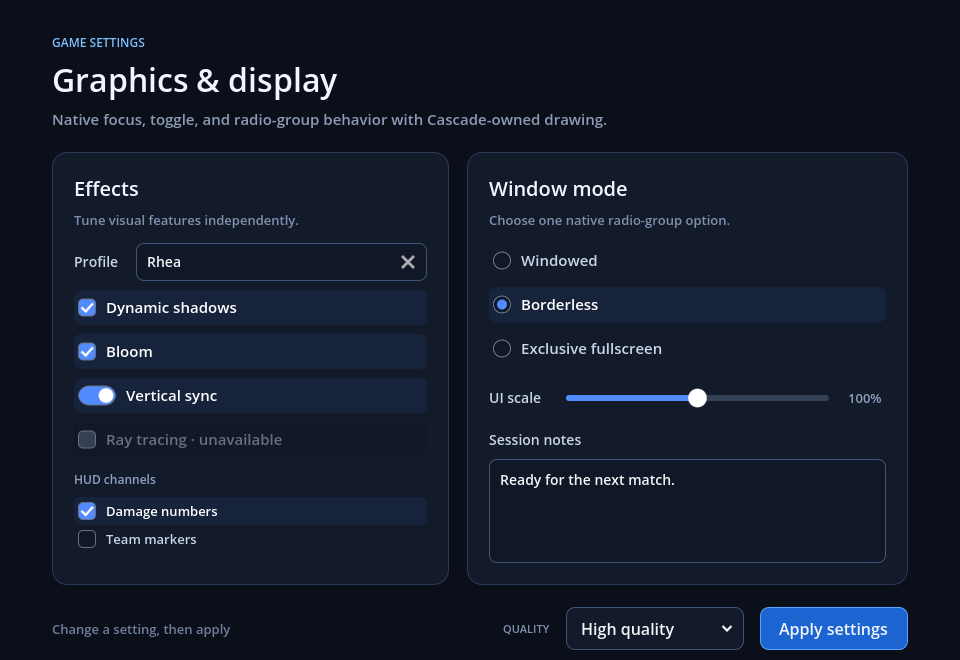
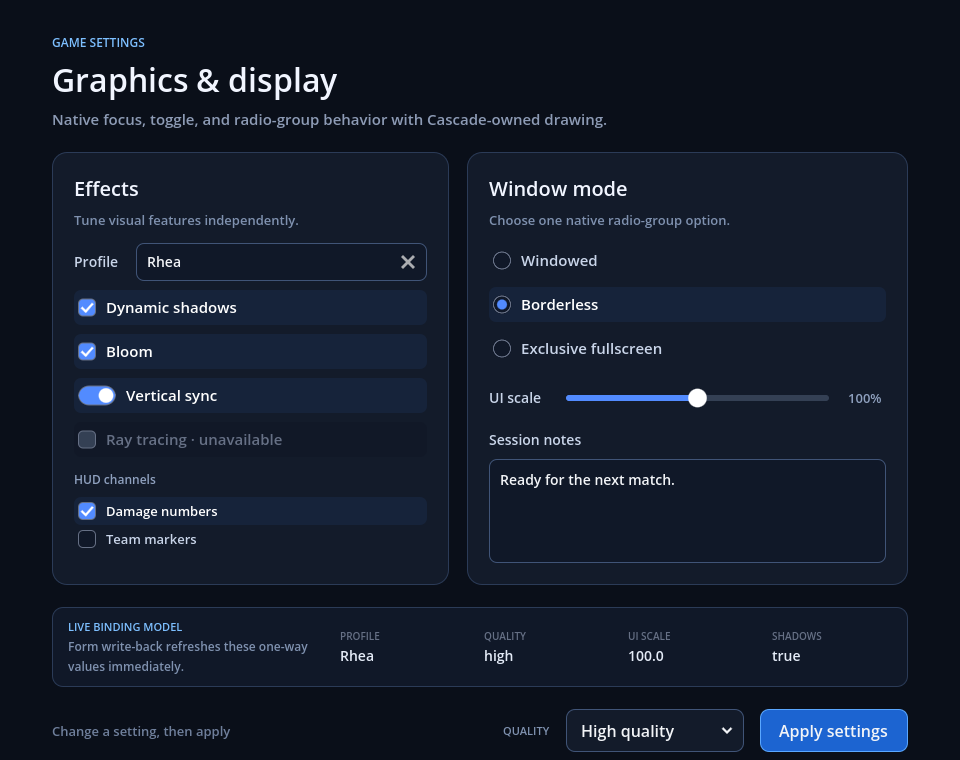
Show live binding updates in showcase

diff --git a/docs/showcase/index.html b/docs/showcase/index.html
@@ -738,24 +738,24 @@
         <div>
           <p class="eyebrow">Current demo</p>
           <h2>Settings menu</h2>
-          <p>An interactive source-generated settings surface exercising native text editing, validation, writable bindings, owned form controls, focus-visible state, and shared pseudo-state precedence.</p>
+          <p>An interactive source-generated settings surface making two-way form write-back and dependent one-way refresh visible alongside native editing, validation, and owned controls.</p>
         </div>
         <dl>
-          <div><dt>Viewport</dt><dd>960 × 660</dd></div>
+          <div><dt>Viewport</dt><dd>960 × 760</dd></div>
           <div><dt>Godot scene</dt><dd><code>examples/settings_menu_showcase.tscn</code></dd></div>
         </dl>
       </header>
 
       <div class="comparison">
         <section class="render-column">
-          <div class="render-label"><span>HTML reference</span><small><a href="references/settings-menu-0280aedcf5d2.html" target="_blank" rel="noreferrer">Open reference</a></small></div>
-          <div class="render-frame" data-viewport-width="960" data-viewport-height="660" style="--viewport-width:960px; --viewport-height:660px; aspect-ratio:960/660">
-            <iframe width="960" height="660" title="HTML rendering of Settings menu" src="references/settings-menu-0280aedcf5d2.html"></iframe>
+          <div class="render-label"><span>HTML reference</span><small><a href="references/settings-menu-345e3842a44f.html" target="_blank" rel="noreferrer">Open reference</a></small></div>
+          <div class="render-frame" data-viewport-width="960" data-viewport-height="760" style="--viewport-width:960px; --viewport-height:760px; aspect-ratio:960/760">
+            <iframe width="960" height="760" title="HTML rendering of Settings menu" src="references/settings-menu-345e3842a44f.html"></iframe>
           </div>
         </section>
         <section class="render-column">
           <div class="render-label"><span>GodotCascade</span><small>Captured from the native Godot scene</small></div>
-          <div class="render-frame godot-render" data-viewport-width="960" data-viewport-height="660" style="--viewport-width:960px; --viewport-height:660px; aspect-ratio:960/660"><img src="assets/settings-menu-godot.png" alt="GodotCascade render of Settings menu"></div>
+          <div class="render-frame godot-render" data-viewport-width="960" data-viewport-height="760" style="--viewport-width:960px; --viewport-height:760px; aspect-ratio:960/760"><img src="assets/settings-menu-godot.png" alt="GodotCascade render of Settings menu"></div>
         </section>
       </div>
 
@@ -767,7 +767,7 @@
         </div>
         <table>
           <thead><tr><th>HTML/CSS</th><th>GodotCascade source</th><th>Runtime</th></tr></thead>
-          <tbody><tr><td><code>input[type=checkbox]</code></td><td><code>Checkbox</code></td><td><code>CascadeCheckbox (BaseButton toggle)</code></td></tr><tr><td><code>input[type=text]</code></td><td><code>TextInput</code></td><td><code>CascadeTextInput (native LineEdit adapter)</code></td></tr><tr><td><code>textarea</code></td><td><code>TextInput multiline=&quot;true&quot;</code></td><td><code>CascadeTextArea (native TextEdit adapter)</code></td></tr><tr><td><code>input/change</code></td><td><code>bind-*={path}</code></td><td><code>Validated writable binding + dependent refresh</code></td></tr><tr><td><code>repeated form rows</code></td><td><code>Repeat + bind-checked={item.enabled}</code></td><td><code>Keyed item-scope write-back</code></td></tr><tr><td><code>input[role=switch]</code></td><td><code>Switch</code></td><td><code>CascadeSwitch track/thumb drawing</code></td></tr><tr><td><code>select / option</code></td><td><code>Select / Option</code></td><td><code>CascadeSelect + PopupPanel</code></td></tr><tr><td><code>input[type=range]</code></td><td><code>Slider</code></td><td><code>CascadeSlider native range input</code></td></tr><tr><td><code>range hover</code></td><td><code>#ui-scale:hover</code></td><td><code>Native slider track hover state</code></td></tr><tr><td><code>input[type=radio] name</code></td><td><code>RadioButton group</code></td><td><code>CascadeRadioButton + ButtonGroup</code></td></tr><tr><td><code>checked / disabled</code></td><td><code>checked / disabled</code></td><td><code>Native button state</code></td></tr><tr><td><code>:checked / :hover</code></td><td><code>:checked / :hover</code></td><td><code>Shared state adapter</code></td></tr><tr><td><code>:invalid / :focus-visible</code></td><td><code>:invalid / :focus-visible</code></td><td><code>Validation and input-modality styling</code></td></tr><tr><td><code>:open / option:checked</code></td><td><code>:open / Option:selected</code></td><td><code>Popup and option state</code></td></tr><tr><td><code>aria-label</code></td><td><code>accessible-label</code></td><td><code>Native accessibility name</code></td></tr><tr><td><code>fieldset-like cards</code></td><td><code>Panel + Column</code></td><td><code>CascadePanel flex layout</code></td></tr></tbody>
+          <tbody><tr><td><code>input[type=checkbox]</code></td><td><code>Checkbox</code></td><td><code>CascadeCheckbox (BaseButton toggle)</code></td></tr><tr><td><code>input[type=text]</code></td><td><code>TextInput</code></td><td><code>CascadeTextInput (native LineEdit adapter)</code></td></tr><tr><td><code>textarea</code></td><td><code>TextInput multiline=&quot;true&quot;</code></td><td><code>CascadeTextArea (native TextEdit adapter)</code></td></tr><tr><td><code>input/change</code></td><td><code>bind-*={path}</code></td><td><code>Validated writable binding + dependent refresh</code></td></tr><tr><td><code>live model output</code></td><td><code>Label text={path}</code></td><td><code>Immediate dependent one-way refresh</code></td></tr><tr><td><code>repeated form rows</code></td><td><code>Repeat + bind-checked={item.enabled}</code></td><td><code>Keyed item-scope write-back</code></td></tr><tr><td><code>input[role=switch]</code></td><td><code>Switch</code></td><td><code>CascadeSwitch track/thumb drawing</code></td></tr><tr><td><code>select / option</code></td><td><code>Select / Option</code></td><td><code>CascadeSelect + PopupPanel</code></td></tr><tr><td><code>input[type=range]</code></td><td><code>Slider</code></td><td><code>CascadeSlider native range input</code></td></tr><tr><td><code>range hover</code></td><td><code>#ui-scale:hover</code></td><td><code>Native slider track hover state</code></td></tr><tr><td><code>input[type=radio] name</code></td><td><code>RadioButton group</code></td><td><code>CascadeRadioButton + ButtonGroup</code></td></tr><tr><td><code>checked / disabled</code></td><td><code>checked / disabled</code></td><td><code>Native button state</code></td></tr><tr><td><code>:checked / :hover</code></td><td><code>:checked / :hover</code></td><td><code>Shared state adapter</code></td></tr><tr><td><code>:invalid / :focus-visible</code></td><td><code>:invalid / :focus-visible</code></td><td><code>Validation and input-modality styling</code></td></tr><tr><td><code>:open / option:checked</code></td><td><code>:open / Option:selected</code></td><td><code>Popup and option state</code></td></tr><tr><td><code>aria-label</code></td><td><code>accessible-label</code></td><td><code>Native accessibility name</code></td></tr><tr><td><code>fieldset-like cards</code></td><td><code>Panel + Column</code></td><td><code>CascadePanel flex layout</code></td></tr></tbody>
         </table>
       </section>
 
@@ -785,8 +785,8 @@
     :root { color-scheme:dark; font-family:Inter,ui-sans-serif,system-ui,sans-serif; background:#0a0f19; color:#f1f5ff; }
     * { box-sizing:border-box; }
     html,body { margin:0; min-height:100%; }
-    body { min-height:660px; background:#0a0f19; }
-    main { min-height:660px; padding:34px 52px; display:flex; flex-direction:column; gap:22px; }
+    body { min-height:760px; background:#0a0f19; }
+    main { min-height:760px; padding:34px 52px; display:flex; flex-direction:column; gap:22px; }
     header { display:flex; flex-direction:column; gap:6px; }
     .eyebrow { margin:0; color:#7dbfff; font-size:12px; letter-spacing:.11em; }
     h1 { margin:0; font-size:32px; font-weight:500; }
@@ -830,6 +830,14 @@
     textarea { width:100%; min-height:104px; resize:none; padding:9px 11px; color:#f2f4f7; font:14px inherit; background:#101828; border:1px solid #405477; border-radius:7px; outline:none; }
     textarea:hover { background:#182235; }
     textarea:focus-visible { border:2px solid #84adff; }
+    .binding-monitor { min-height:72px; padding:12px 16px; display:flex; align-items:center; gap:22px; background:#101828; border:1px solid #2b3b57; border-radius:10px; }
+    .binding-intro { min-width:250px; display:flex; flex-direction:column; gap:3px; }
+    .binding-title { color:#7dbfff; font-size:11px; }
+    .binding-help { color:#7f91af; font-size:12px; }
+    .binding-values { margin:0; display:flex; align-items:center; gap:24px; flex:1; }
+    .binding-values div { min-width:90px; display:flex; flex:1; flex-direction:column; gap:3px; }
+    .binding-values dt { color:#667085; font-size:10px; }
+    .binding-values dd { margin:0; color:#e4ebf7; font-size:14px; }
     footer { display:flex; align-items:center; gap:16px; }
     .hint { flex:1; color:#6f7f9b; font-size:13px; }
     .select-label { color:#7f91af; font-size:11px; letter-spacing:.08em; }
@@ -845,20 +853,31 @@
   &lt;main&gt;
     &lt;header&gt;&lt;p class=&quot;eyebrow&quot;&gt;GAME SETTINGS&lt;/p&gt;&lt;h1&gt;Graphics &amp;amp; display&lt;/h1&gt;&lt;p class=&quot;subtitle&quot;&gt;Native focus, toggle, and radio-group behavior with Cascade-owned drawing.&lt;/p&gt;&lt;/header&gt;
     &lt;div class=&quot;content&quot;&gt;
-      &lt;section&gt;&lt;h2&gt;Effects&lt;/h2&gt;&lt;p class=&quot;help&quot;&gt;Tune visual features independently.&lt;/p&gt;&lt;div class=&quot;profile-setting&quot;&gt;&lt;span class=&quot;profile-label&quot;&gt;Profile&lt;/span&gt;&lt;input id=&quot;profile-name&quot; class=&quot;profile-input&quot; value=&quot;Rhea&quot; placeholder=&quot;Player name&quot; required minlength=&quot;2&quot; maxlength=&quot;16&quot; aria-label=&quot;Player profile name&quot;&gt;&lt;/div&gt;&lt;label&gt;&lt;input type=&quot;checkbox&quot; checked&gt;Dynamic shadows&lt;/label&gt;&lt;label&gt;&lt;input type=&quot;checkbox&quot; checked&gt;Bloom&lt;/label&gt;&lt;label class=&quot;switch&quot;&gt;&lt;input type=&quot;checkbox&quot; role=&quot;switch&quot; checked&gt;&lt;span class=&quot;switch-track&quot; aria-hidden=&quot;true&quot;&gt;&lt;span class=&quot;switch-thumb&quot;&gt;&lt;/span&gt;&lt;/span&gt;&lt;span&gt;Vertical sync&lt;/span&gt;&lt;/label&gt;&lt;label&gt;&lt;input type=&quot;checkbox&quot; disabled&gt;Ray tracing · unavailable&lt;/label&gt;&lt;span class=&quot;channel-title&quot;&gt;HUD channels&lt;/span&gt;&lt;label class=&quot;channel-setting&quot; data-repeat-scope=&quot;item.enabled&quot;&gt;&lt;input type=&quot;checkbox&quot; checked&gt;Damage numbers&lt;/label&gt;&lt;label class=&quot;channel-setting&quot; data-repeat-scope=&quot;item.enabled&quot;&gt;&lt;input type=&quot;checkbox&quot;&gt;Team markers&lt;/label&gt;&lt;/section&gt;
+      &lt;section&gt;&lt;h2&gt;Effects&lt;/h2&gt;&lt;p class=&quot;help&quot;&gt;Tune visual features independently.&lt;/p&gt;&lt;div class=&quot;profile-setting&quot;&gt;&lt;span class=&quot;profile-label&quot;&gt;Profile&lt;/span&gt;&lt;input id=&quot;profile-name&quot; class=&quot;profile-input&quot; value=&quot;Rhea&quot; placeholder=&quot;Player name&quot; required minlength=&quot;2&quot; maxlength=&quot;16&quot; aria-label=&quot;Player profile name&quot;&gt;&lt;/div&gt;&lt;label&gt;&lt;input id=&quot;shadows&quot; type=&quot;checkbox&quot; checked&gt;Dynamic shadows&lt;/label&gt;&lt;label&gt;&lt;input type=&quot;checkbox&quot; checked&gt;Bloom&lt;/label&gt;&lt;label class=&quot;switch&quot;&gt;&lt;input type=&quot;checkbox&quot; role=&quot;switch&quot; checked&gt;&lt;span class=&quot;switch-track&quot; aria-hidden=&quot;true&quot;&gt;&lt;span class=&quot;switch-thumb&quot;&gt;&lt;/span&gt;&lt;/span&gt;&lt;span&gt;Vertical sync&lt;/span&gt;&lt;/label&gt;&lt;label&gt;&lt;input type=&quot;checkbox&quot; disabled&gt;Ray tracing · unavailable&lt;/label&gt;&lt;span class=&quot;channel-title&quot;&gt;HUD channels&lt;/span&gt;&lt;label class=&quot;channel-setting&quot; data-repeat-scope=&quot;item.enabled&quot;&gt;&lt;input type=&quot;checkbox&quot; checked&gt;Damage numbers&lt;/label&gt;&lt;label class=&quot;channel-setting&quot; data-repeat-scope=&quot;item.enabled&quot;&gt;&lt;input type=&quot;checkbox&quot;&gt;Team markers&lt;/label&gt;&lt;/section&gt;
       &lt;section&gt;&lt;h2&gt;Window mode&lt;/h2&gt;&lt;p class=&quot;help&quot;&gt;Choose one native radio-group option.&lt;/p&gt;&lt;label&gt;&lt;input type=&quot;radio&quot; name=&quot;window-mode&quot;&gt;Windowed&lt;/label&gt;&lt;label&gt;&lt;input type=&quot;radio&quot; name=&quot;window-mode&quot; checked&gt;Borderless&lt;/label&gt;&lt;label&gt;&lt;input type=&quot;radio&quot; name=&quot;window-mode&quot;&gt;Exclusive fullscreen&lt;/label&gt;&lt;div class=&quot;range-setting&quot;&gt;&lt;span&gt;UI scale&lt;/span&gt;&lt;span class=&quot;range-control&quot;&gt;&lt;input id=&quot;ui-scale&quot; type=&quot;range&quot; min=&quot;75&quot; max=&quot;125&quot; value=&quot;100&quot; step=&quot;5&quot; aria-label=&quot;Interface scale&quot;&gt;&lt;span class=&quot;range-track&quot; aria-hidden=&quot;true&quot;&gt;&lt;span class=&quot;range-fill&quot;&gt;&lt;/span&gt;&lt;span class=&quot;range-thumb&quot;&gt;&lt;/span&gt;&lt;/span&gt;&lt;/span&gt;&lt;output id=&quot;scale-value&quot;&gt;100%&lt;/output&gt;&lt;/div&gt;&lt;span class=&quot;notes-label&quot;&gt;Session notes&lt;/span&gt;&lt;textarea id=&quot;session-notes&quot; maxlength=&quot;160&quot; placeholder=&quot;Add notes for the next launch&quot; aria-label=&quot;Session notes&quot;&gt;Ready for the next match.&lt;/textarea&gt;&lt;/section&gt;
     &lt;/div&gt;
+    &lt;div class=&quot;binding-monitor&quot;&gt;&lt;div class=&quot;binding-intro&quot;&gt;&lt;span class=&quot;binding-title&quot;&gt;LIVE BINDING MODEL&lt;/span&gt;&lt;span class=&quot;binding-help&quot;&gt;Form write-back refreshes these one-way values immediately.&lt;/span&gt;&lt;/div&gt;&lt;dl class=&quot;binding-values&quot;&gt;&lt;div&gt;&lt;dt&gt;PROFILE&lt;/dt&gt;&lt;dd id=&quot;bound-profile&quot;&gt;Rhea&lt;/dd&gt;&lt;/div&gt;&lt;div&gt;&lt;dt&gt;QUALITY&lt;/dt&gt;&lt;dd id=&quot;bound-quality&quot;&gt;high&lt;/dd&gt;&lt;/div&gt;&lt;div&gt;&lt;dt&gt;UI SCALE&lt;/dt&gt;&lt;dd id=&quot;bound-scale&quot;&gt;100&lt;/dd&gt;&lt;/div&gt;&lt;div&gt;&lt;dt&gt;SHADOWS&lt;/dt&gt;&lt;dd id=&quot;bound-shadows&quot;&gt;true&lt;/dd&gt;&lt;/div&gt;&lt;/dl&gt;&lt;/div&gt;
     &lt;footer&gt;&lt;span id=&quot;settings-status&quot; class=&quot;hint&quot; aria-live=&quot;polite&quot;&gt;Change a setting, then apply&lt;/span&gt;&lt;span class=&quot;select-label&quot;&gt;QUALITY&lt;/span&gt;&lt;span class=&quot;select-control&quot;&gt;&lt;select id=&quot;quality&quot; aria-label=&quot;Graphics quality&quot;&gt;&lt;option value=&quot;low&quot;&gt;Low quality&lt;/option&gt;&lt;option value=&quot;medium&quot;&gt;Medium quality&lt;/option&gt;&lt;option value=&quot;high&quot; selected&gt;High quality&lt;/option&gt;&lt;option value=&quot;ultra&quot;&gt;Ultra quality&lt;/option&gt;&lt;/select&gt;&lt;span class=&quot;select-face&quot; aria-hidden=&quot;true&quot;&gt;&lt;span&gt;High quality&lt;/span&gt;&lt;span class=&quot;select-chevron&quot;&gt;&lt;/span&gt;&lt;/span&gt;&lt;/span&gt;&lt;button id=&quot;apply&quot; type=&quot;button&quot;&gt;Apply settings&lt;/button&gt;&lt;/footer&gt;
   &lt;/main&gt;
   &lt;script&gt;
     const profile = document.querySelector(&#x27;#profile-name&#x27;);
+    const shadows = document.querySelector(&#x27;#shadows&#x27;);
     const scale = document.querySelector(&#x27;#ui-scale&#x27;);
     const scaleValue = document.querySelector(&#x27;#scale-value&#x27;);
     const quality = document.querySelector(&#x27;#quality&#x27;);
     const qualityFace = document.querySelector(&#x27;.select-face span&#x27;);
     const status = document.querySelector(&#x27;#settings-status&#x27;);
     const markChanged = () =&gt; { status.textContent = &#x27;Unsaved changes&#x27;; };
-    document.querySelectorAll(&#x27;input, select, textarea&#x27;).forEach(control =&gt; control.addEventListener(&#x27;input&#x27;, markChanged));
+    const renderBoundValues = () =&gt; {
+      document.querySelector(&#x27;#bound-profile&#x27;).textContent = profile.value;
+      document.querySelector(&#x27;#bound-quality&#x27;).textContent = quality.value;
+      document.querySelector(&#x27;#bound-scale&#x27;).textContent = scale.value;
+      document.querySelector(&#x27;#bound-shadows&#x27;).textContent = String(shadows.checked);
+    };
+    document.querySelectorAll(&#x27;input, select, textarea&#x27;).forEach(control =&gt; control.addEventListener(&#x27;input&#x27;, () =&gt; {
+      markChanged();
+      renderBoundValues();
+    }));
     profile.addEventListener(&#x27;input&#x27;, () =&gt; profile.setAttribute(&#x27;aria-invalid&#x27;, String(!profile.checkValidity())));
     scale.addEventListener(&#x27;input&#x27;, () =&gt; {
       const percent = (Number(scale.value) - Number(scale.min)) / (Number(scale.max) - Number(scale.min)) * 100;
@@ -866,7 +885,10 @@
       document.querySelector(&#x27;.range-fill&#x27;).style.right = `${100 - percent}%`;
       document.querySelector(&#x27;.range-thumb&#x27;).style.left = `${percent}%`;
     });
-    quality.addEventListener(&#x27;change&#x27;, () =&gt; { qualityFace.textContent = quality.selectedOptions[0].textContent; });
+    quality.addEventListener(&#x27;change&#x27;, () =&gt; {
+      qualityFace.textContent = quality.selectedOptions[0].textContent;
+      renderBoundValues();
+    });
     document.querySelector(&#x27;#apply&#x27;).addEventListener(&#x27;click&#x27;, () =&gt; {
       const valid = profile.checkValidity();
       profile.setAttribute(&#x27;aria-invalid&#x27;, String(!valid));
@@ -923,6 +945,31 @@
         &lt;/Panel&gt;
     &lt;/Row&gt;
 
+    &lt;Panel class=&quot;binding-monitor&quot;&gt;
+        &lt;Column class=&quot;binding-intro&quot;&gt;
+            &lt;Label class=&quot;binding-title&quot;&gt;LIVE BINDING MODEL&lt;/Label&gt;
+            &lt;Label class=&quot;binding-help&quot;&gt;Form write-back refreshes these one-way values immediately.&lt;/Label&gt;
+        &lt;/Column&gt;
+        &lt;Row class=&quot;binding-values&quot;&gt;
+            &lt;Column class=&quot;binding-cell&quot;&gt;
+                &lt;Label class=&quot;binding-key&quot;&gt;PROFILE&lt;/Label&gt;
+                &lt;Label id=&quot;bound-profile&quot; class=&quot;binding-value&quot; text=&quot;{settings.profile}&quot; /&gt;
+            &lt;/Column&gt;
+            &lt;Column class=&quot;binding-cell&quot;&gt;
+                &lt;Label class=&quot;binding-key&quot;&gt;QUALITY&lt;/Label&gt;
+                &lt;Label id=&quot;bound-quality&quot; class=&quot;binding-value&quot; text=&quot;{settings.quality}&quot; /&gt;
+            &lt;/Column&gt;
+            &lt;Column class=&quot;binding-cell&quot;&gt;
+                &lt;Label class=&quot;binding-key&quot;&gt;UI SCALE&lt;/Label&gt;
+                &lt;Label id=&quot;bound-scale&quot; class=&quot;binding-value&quot; text=&quot;{settings.ui_scale}&quot; /&gt;
+            &lt;/Column&gt;
+            &lt;Column class=&quot;binding-cell&quot;&gt;
+                &lt;Label class=&quot;binding-key&quot;&gt;SHADOWS&lt;/Label&gt;
+                &lt;Label id=&quot;bound-shadows&quot; class=&quot;binding-value&quot; text=&quot;{settings.shadows}&quot; /&gt;
+            &lt;/Column&gt;
+        &lt;/Row&gt;
+    &lt;/Panel&gt;
+
     &lt;Row class=&quot;settings-footer&quot;&gt;
         &lt;Label id=&quot;settings-status&quot; class=&quot;hint&quot; text=&quot;{ui.status}&quot; /&gt;
         &lt;Label class=&quot;select-label&quot;&gt;QUALITY&lt;/Label&gt;
@@ -942,7 +989,7 @@
         <summary><span>GodotCascade stylesheet</span><code>examples/showcase/settings_menu/styles.gcss</code></summary>
         <pre><code class="language-css">/* Source-native settings menu matching reference.html. */
 .settings-page {
-    min-height: 660px;
+    min-height: 760px;
     padding: 34px 52px;
     display: flex;
     flex-direction: column;
@@ -996,6 +1043,15 @@
 #session-notes:focused { background: #131b2a; }
 #session-notes:focus-visible { border-color: #84adff; border-width: 2px; }
 #session-notes:invalid { background: #2a1720; color: #fff1f0; border-color: #f97066; }
+
+.binding-monitor { min-height: 72px; padding: 12px 16px; display: flex; flex-direction: row; align-items: center; gap: 22px; background: #101828; border: 1px solid #2b3b57; border-radius: 10px; }
+.binding-intro { min-width: 250px; display: flex; flex-direction: column; gap: 3px; }
+.binding-title { color: #7dbfff; font-size: 11px; }
+.binding-help { color: #7f91af; font-size: 12px; }
+.binding-values { display: flex; flex-direction: row; align-items: center; gap: 24px; flex-grow: 1; }
+.binding-cell { min-width: 90px; display: flex; flex-direction: column; gap: 3px; flex-grow: 1; }
+.binding-key { color: #667085; font-size: 10px; }
+.binding-value { color: #e4ebf7; font-size: 14px; }
 
 .settings-footer { display: flex; flex-direction: row; align-items: center; gap: 16px; }
 .hint { color: #6f7f9b; font-size: 13px; flex-grow: 1; }

diff --git a/docs/showcase/references/settings-menu-0280aedcf5d2.html b/docs/showcase/references/settings-menu-0280aedcf5d2.html
@@ -2,100 +2,12 @@
 <html lang="en">
 <head>
   <meta charset="utf-8">
-  <meta name="viewport" content="width=device-width, initial-scale=1">
-  <title>GodotCascade — Settings menu HTML reference</title>
-  <style>
-    :root { color-scheme:dark; font-family:Inter,ui-sans-serif,system-ui,sans-serif; background:#0a0f19; color:#f1f5ff; }
-    * { box-sizing:border-box; }
-    html,body { margin:0; min-height:100%; }
-    body { min-height:660px; background:#0a0f19; }
-    main { min-height:660px; padding:34px 52px; display:flex; flex-direction:column; gap:22px; }
-    header { display:flex; flex-direction:column; gap:6px; }
-    .eyebrow { margin:0; color:#7dbfff; font-size:12px; letter-spacing:.11em; }
-    h1 { margin:0; font-size:32px; font-weight:500; }
-    .subtitle { margin:0; color:#8d9bb5; font-size:15px; }
-    .content { display:flex; flex:1; gap:18px; }
-    section { flex:1; padding:22px; display:flex; flex-direction:column; gap:9px; background:#131b2a; border:1px solid #2b3b57; border-radius:14px; }
-    h2 { margin:0; font-size:20px; font-weight:500; }
-    .help { margin:0 0 5px; color:#7f91af; font-size:13px; }
-    .profile-setting { min-height:38px; display:flex; align-items:center; gap:10px; }
-    .profile-label { min-width:52px; color:#c9d5e9; font-size:14px; }
-    .profile-input { min-width:170px; min-height:38px; flex:1; padding:8px 11px; color:#f2f4f7; font:14px inherit; background:#101828; border:1px solid #405477; border-radius:7px; outline:none; }
-    .profile-input:hover { background:#182235; }
-    .profile-input:focus-visible { border:2px solid #84adff; }
-    .profile-input[aria-invalid=true] { color:#fff1f0; background:#2a1720; border-color:#f97066; }
-    label { min-height:35px; padding:4px; display:flex; align-items:center; gap:10px; color:#c9d5e9; border:2px solid transparent; border-radius:7px; }
-    label:hover { background:#1d2939; }
-    label:has(input:checked) { color:#fff; background:#16233a; }
-    label:has(input:disabled) { color:#667085; background:#111827; }
-    .channel-title { margin-top:5px; color:#8fa1bf; font-size:12px; }
-    .channel-setting { min-height:28px; padding:2px 4px; display:flex; align-items:center; gap:8px; color:#c9d5e9; font-size:13px; }
-    .channel-setting input { width:18px; height:18px; margin:0; accent-color:#528bff; }
-    input[type=checkbox],input[type=radio] { width:18px; height:18px; margin:0; accent-color:#528bff; }
-    .switch input { position:absolute; width:1px; height:1px; opacity:0; }
-    .switch-track { position:relative; width:38px; height:20px; flex:none; border:1px solid #667085; border-radius:99px; background:#344054; }
-    .switch-thumb { position:absolute; top:2px; left:2px; width:14px; height:14px; border-radius:50%; background:#fff; transition:left .1s ease; }
-    .switch input:checked + .switch-track { background:#528bff; }
-    .switch input:checked + .switch-track .switch-thumb { left:20px; }
-    .switch input:focus-visible + .switch-track { outline:2px solid #84adff; outline-offset:2px; }
-    .range-setting { min-height:36px; margin-top:5px; display:flex; align-items:center; gap:10px; color:#c9d5e9; font-size:14px; }
-    .range-control { position:relative; min-width:150px; height:30px; flex:1; }
-    .range-control input { position:absolute; inset:0; z-index:2; width:100%; height:100%; margin:0; opacity:0; cursor:pointer; }
-    .range-track { position:absolute; left:9px; right:9px; top:12px; height:6px; border-radius:99px; background:#344054; }
-    .range-control:hover .range-track { background:#475467; }
-    .range-fill { position:absolute; inset:0 50% 0 0; border-radius:99px; background:#528bff; }
-    .range-thumb { position:absolute; top:50%; left:50%; width:18px; height:18px; border-radius:50%; background:#fff; transform:translate(-50%,-50%); }
-    .range-control:hover .range-fill { background:#75a5ff; }
-    .range-control:hover .range-thumb { background:#dbeafe; }
-    .range-control input:focus-visible + .range-track { outline:2px solid #84adff; outline-offset:3px; }
-    .range-setting output { min-width:38px; color:#8fa1bf; font-size:13px; }
-    .notes-label { margin-top:5px; color:#c9d5e9; font-size:14px; }
-    textarea { width:100%; min-height:104px; resize:none; padding:9px 11px; color:#f2f4f7; font:14px inherit; background:#101828; border:1px solid #405477; border-radius:7px; outline:none; }
-    textarea:hover { background:#182235; }
-    textarea:focus-visible { border:2px solid #84adff; }
-    footer { display:flex; align-items:center; gap:16px; }
-    .hint { flex:1; color:#6f7f9b; font-size:13px; }
-    .select-label { color:#7f91af; font-size:11px; letter-spacing:.08em; }
-    .select-control { position:relative; width:178px; height:42px; flex:none; }
-    .select-control select { position:absolute; inset:0; z-index:2; width:100%; height:100%; margin:0; opacity:0; cursor:pointer; }
-    .select-face { position:absolute; inset:0; padding:9px 14px; display:flex; align-items:center; justify-content:space-between; color:#f2f4f7; background:#131b2a; border:1px solid #405477; border-radius:8px; }
-    .select-chevron { width:8px; height:8px; margin:0 3px 4px 12px; border-right:2px solid currentColor; border-bottom:2px solid currentColor; transform:rotate(45deg); }
-    .select-control select:focus-visible + .select-face { outline:2px solid #84adff; outline-offset:2px; }
-    button { min-width:148px; min-height:42px; padding:9px 14px; color:#f2f4f7; font:inherit; background:#1c64d1; border:1px solid #5aa7ff; border-radius:8px; }
-  </style>
+  <meta http-equiv="refresh" content="0; url=settings-menu-345e3842a44f.html">
+  <link rel="canonical" href="settings-menu-345e3842a44f.html">
+  <title>GodotCascade showcase reference moved</title>
 </head>
 <body>
-  <main>
-    <header><p class="eyebrow">GAME SETTINGS</p><h1>Graphics &amp; display</h1><p class="subtitle">Native focus, toggle, and radio-group behavior with Cascade-owned drawing.</p></header>
-    <div class="content">
-      <section><h2>Effects</h2><p class="help">Tune visual features independently.</p><div class="profile-setting"><span class="profile-label">Profile</span><input id="profile-name" class="profile-input" value="Rhea" placeholder="Player name" required minlength="2" maxlength="16" aria-label="Player profile name"></div><label><input type="checkbox" checked>Dynamic shadows</label><label><input type="checkbox" checked>Bloom</label><label class="switch"><input type="checkbox" role="switch" checked><span class="switch-track" aria-hidden="true"><span class="switch-thumb"></span></span><span>Vertical sync</span></label><label><input type="checkbox" disabled>Ray tracing · unavailable</label><span class="channel-title">HUD channels</span><label class="channel-setting" data-repeat-scope="item.enabled"><input type="checkbox" checked>Damage numbers</label><label class="channel-setting" data-repeat-scope="item.enabled"><input type="checkbox">Team markers</label></section>
-      <section><h2>Window mode</h2><p class="help">Choose one native radio-group option.</p><label><input type="radio" name="window-mode">Windowed</label><label><input type="radio" name="window-mode" checked>Borderless</label><label><input type="radio" name="window-mode">Exclusive fullscreen</label><div class="range-setting"><span>UI scale</span><span class="range-control"><input id="ui-scale" type="range" min="75" max="125" value="100" step="5" aria-label="Interface scale"><span class="range-track" aria-hidden="true"><span class="range-fill"></span><span class="range-thumb"></span></span></span><output id="scale-value">100%</output></div><span class="notes-label">Session notes</span><textarea id="session-notes" maxlength="160" placeholder="Add notes for the next launch" aria-label="Session notes">Ready for the next match.</textarea></section>
-    </div>
-    <footer><span id="settings-status" class="hint" aria-live="polite">Change a setting, then apply</span><span class="select-label">QUALITY</span><span class="select-control"><select id="quality" aria-label="Graphics quality"><option value="low">Low quality</option><option value="medium">Medium quality</option><option value="high" selected>High quality</option><option value="ultra">Ultra quality</option></select><span class="select-face" aria-hidden="true"><span>High quality</span><span class="select-chevron"></span></span></span><button id="apply" type="button">Apply settings</button></footer>
-  </main>
-  <script>
-    const profile = document.querySelector('#profile-name');
-    const scale = document.querySelector('#ui-scale');
-    const scaleValue = document.querySelector('#scale-value');
-    const quality = document.querySelector('#quality');
-    const qualityFace = document.querySelector('.select-face span');
-    const status = document.querySelector('#settings-status');
-    const markChanged = () => { status.textContent = 'Unsaved changes'; };
-    document.querySelectorAll('input, select, textarea').forEach(control => control.addEventListener('input', markChanged));
-    profile.addEventListener('input', () => profile.setAttribute('aria-invalid', String(!profile.checkValidity())));
-    scale.addEventListener('input', () => {
-      const percent = (Number(scale.value) - Number(scale.min)) / (Number(scale.max) - Number(scale.min)) * 100;
-      scaleValue.textContent = `${scale.value}%`;
-      document.querySelector('.range-fill').style.right = `${100 - percent}%`;
-      document.querySelector('.range-thumb').style.left = `${percent}%`;
-    });
-    quality.addEventListener('change', () => { qualityFace.textContent = quality.selectedOptions[0].textContent; });
-    document.querySelector('#apply').addEventListener('click', () => {
-      const valid = profile.checkValidity();
-      profile.setAttribute('aria-invalid', String(!valid));
-      status.textContent = valid ? `Applied ${quality.value} quality for ${profile.value}` : 'Fix the highlighted profile name';
-      if (!valid) profile.focus();
-    });
-  </script>
+  <p>This cached showcase reference moved to <a href="settings-menu-345e3842a44f.html">settings-menu-345e3842a44f.html</a>.</p>
+  <script>location.replace("settings-menu-345e3842a44f.html");</script>
 </body>
 </html>

diff --git a/docs/showcase/references/settings-menu-37668db26145.html b/docs/showcase/references/settings-menu-37668db26145.html
@@ -2,12 +2,12 @@
 <html lang="en">
 <head>
   <meta charset="utf-8">
-  <meta http-equiv="refresh" content="0; url=settings-menu-0280aedcf5d2.html">
-  <link rel="canonical" href="settings-menu-0280aedcf5d2.html">
+  <meta http-equiv="refresh" content="0; url=settings-menu-345e3842a44f.html">
+  <link rel="canonical" href="settings-menu-345e3842a44f.html">
   <title>GodotCascade showcase reference moved</title>
 </head>
 <body>
-  <p>This cached showcase reference moved to <a href="settings-menu-0280aedcf5d2.html">settings-menu-0280aedcf5d2.html</a>.</p>
-  <script>location.replace("settings-menu-0280aedcf5d2.html");</script>
+  <p>This cached showcase reference moved to <a href="settings-menu-345e3842a44f.html">settings-menu-345e3842a44f.html</a>.</p>
+  <script>location.replace("settings-menu-345e3842a44f.html");</script>
 </body>
 </html>

diff --git a/docs/showcase/references/settings-menu-859b9b77dbc8.html b/docs/showcase/references/settings-menu-859b9b77dbc8.html
@@ -2,12 +2,12 @@
 <html lang="en">
 <head>
   <meta charset="utf-8">
-  <meta http-equiv="refresh" content="0; url=settings-menu-0280aedcf5d2.html">
-  <link rel="canonical" href="settings-menu-0280aedcf5d2.html">
+  <meta http-equiv="refresh" content="0; url=settings-menu-345e3842a44f.html">
+  <link rel="canonical" href="settings-menu-345e3842a44f.html">
   <title>GodotCascade showcase reference moved</title>
 </head>
 <body>
-  <p>This cached showcase reference moved to <a href="settings-menu-0280aedcf5d2.html">settings-menu-0280aedcf5d2.html</a>.</p>
-  <script>location.replace("settings-menu-0280aedcf5d2.html");</script>
+  <p>This cached showcase reference moved to <a href="settings-menu-345e3842a44f.html">settings-menu-345e3842a44f.html</a>.</p>
+  <script>location.replace("settings-menu-345e3842a44f.html");</script>
 </body>
 </html>

diff --git a/docs/showcase/references/settings-menu-8e908dc48275.html b/docs/showcase/references/settings-menu-8e908dc48275.html
@@ -2,12 +2,12 @@
 <html lang="en">
 <head>
   <meta charset="utf-8">
-  <meta http-equiv="refresh" content="0; url=settings-menu-0280aedcf5d2.html">
-  <link rel="canonical" href="settings-menu-0280aedcf5d2.html">
+  <meta http-equiv="refresh" content="0; url=settings-menu-345e3842a44f.html">
+  <link rel="canonical" href="settings-menu-345e3842a44f.html">
   <title>GodotCascade showcase reference moved</title>
 </head>
 <body>
-  <p>This cached showcase reference moved to <a href="settings-menu-0280aedcf5d2.html">settings-menu-0280aedcf5d2.html</a>.</p>
-  <script>location.replace("settings-menu-0280aedcf5d2.html");</script>
+  <p>This cached showcase reference moved to <a href="settings-menu-345e3842a44f.html">settings-menu-345e3842a44f.html</a>.</p>
+  <script>location.replace("settings-menu-345e3842a44f.html");</script>
 </body>
 </html>

diff --git a/docs/showcase/references/settings-menu-b8e6c78e3e81.html b/docs/showcase/references/settings-menu-b8e6c78e3e81.html
@@ -2,12 +2,12 @@
 <html lang="en">
 <head>
   <meta charset="utf-8">
-  <meta http-equiv="refresh" content="0; url=settings-menu-0280aedcf5d2.html">
-  <link rel="canonical" href="settings-menu-0280aedcf5d2.html">
+  <meta http-equiv="refresh" content="0; url=settings-menu-345e3842a44f.html">
+  <link rel="canonical" href="settings-menu-345e3842a44f.html">
   <title>GodotCascade showcase reference moved</title>
 </head>
 <body>
-  <p>This cached showcase reference moved to <a href="settings-menu-0280aedcf5d2.html">settings-menu-0280aedcf5d2.html</a>.</p>
-  <script>location.replace("settings-menu-0280aedcf5d2.html");</script>
+  <p>This cached showcase reference moved to <a href="settings-menu-345e3842a44f.html">settings-menu-345e3842a44f.html</a>.</p>
+  <script>location.replace("settings-menu-345e3842a44f.html");</script>
 </body>
 </html>

diff --git a/docs/showcase/references/settings-menu-cf9e1c81b8b4.html b/docs/showcase/references/settings-menu-cf9e1c81b8b4.html
@@ -2,12 +2,12 @@
 <html lang="en">
 <head>
   <meta charset="utf-8">
-  <meta http-equiv="refresh" content="0; url=settings-menu-0280aedcf5d2.html">
-  <link rel="canonical" href="settings-menu-0280aedcf5d2.html">
+  <meta http-equiv="refresh" content="0; url=settings-menu-345e3842a44f.html">
+  <link rel="canonical" href="settings-menu-345e3842a44f.html">
   <title>GodotCascade showcase reference moved</title>
 </head>
 <body>
-  <p>This cached showcase reference moved to <a href="settings-menu-0280aedcf5d2.html">settings-menu-0280aedcf5d2.html</a>.</p>
-  <script>location.replace("settings-menu-0280aedcf5d2.html");</script>
+  <p>This cached showcase reference moved to <a href="settings-menu-345e3842a44f.html">settings-menu-345e3842a44f.html</a>.</p>
+  <script>location.replace("settings-menu-345e3842a44f.html");</script>
 </body>
 </html>

diff --git a/docs/showcase/references/settings-menu-cfe152579fd1.html b/docs/showcase/references/settings-menu-cfe152579fd1.html
@@ -2,12 +2,12 @@
 <html lang="en">
 <head>
   <meta charset="utf-8">
-  <meta http-equiv="refresh" content="0; url=settings-menu-0280aedcf5d2.html">
-  <link rel="canonical" href="settings-menu-0280aedcf5d2.html">
+  <meta http-equiv="refresh" content="0; url=settings-menu-345e3842a44f.html">
+  <link rel="canonical" href="settings-menu-345e3842a44f.html">
   <title>GodotCascade showcase reference moved</title>
 </head>
 <body>
-  <p>This cached showcase reference moved to <a href="settings-menu-0280aedcf5d2.html">settings-menu-0280aedcf5d2.html</a>.</p>
-  <script>location.replace("settings-menu-0280aedcf5d2.html");</script>
+  <p>This cached showcase reference moved to <a href="settings-menu-345e3842a44f.html">settings-menu-345e3842a44f.html</a>.</p>
+  <script>location.replace("settings-menu-345e3842a44f.html");</script>
 </body>
 </html>

diff --git a/docs/current-support.md b/docs/current-support.md
@@ -29,6 +29,8 @@ Every element accepts `id`, `class`, `accessible-label`, and `accessible-descrip
 
 Unknown elements are build errors unless their native factory is registered through `ComponentRegistry`. `Window` is not implemented.
 
+`Table`, table-row/cell elements, and a data-grid component are not implemented. A fixed visual matrix can be composed with `Grid`, but there is no table-specific shared column measurement across repeated rows, header semantics, sorting, selection, resizing, or virtualization.
+
 ## Bindings
 
 An entire supported attribute value may be an exact property-path binding:

diff --git a/CHANGELOG.md b/CHANGELOG.md
@@ -4,6 +4,7 @@ All notable changes to GodotCascade are documented here. Versions follow semanti
 
 ## [Unreleased]
 
+- Made the settings showcase's two-way write-back visible through live one-way labels bound to the same profile, quality, scale, and shadow values.
 - Compacted select popup rows and removed inherited closed-control borders from options.
 - Added antialiasing to slider, switch, and radio circular drawing.
 - Added native `Slider:hover` feedback across the owned track, fill, and thumb, with matching HTML showcase behavior.
